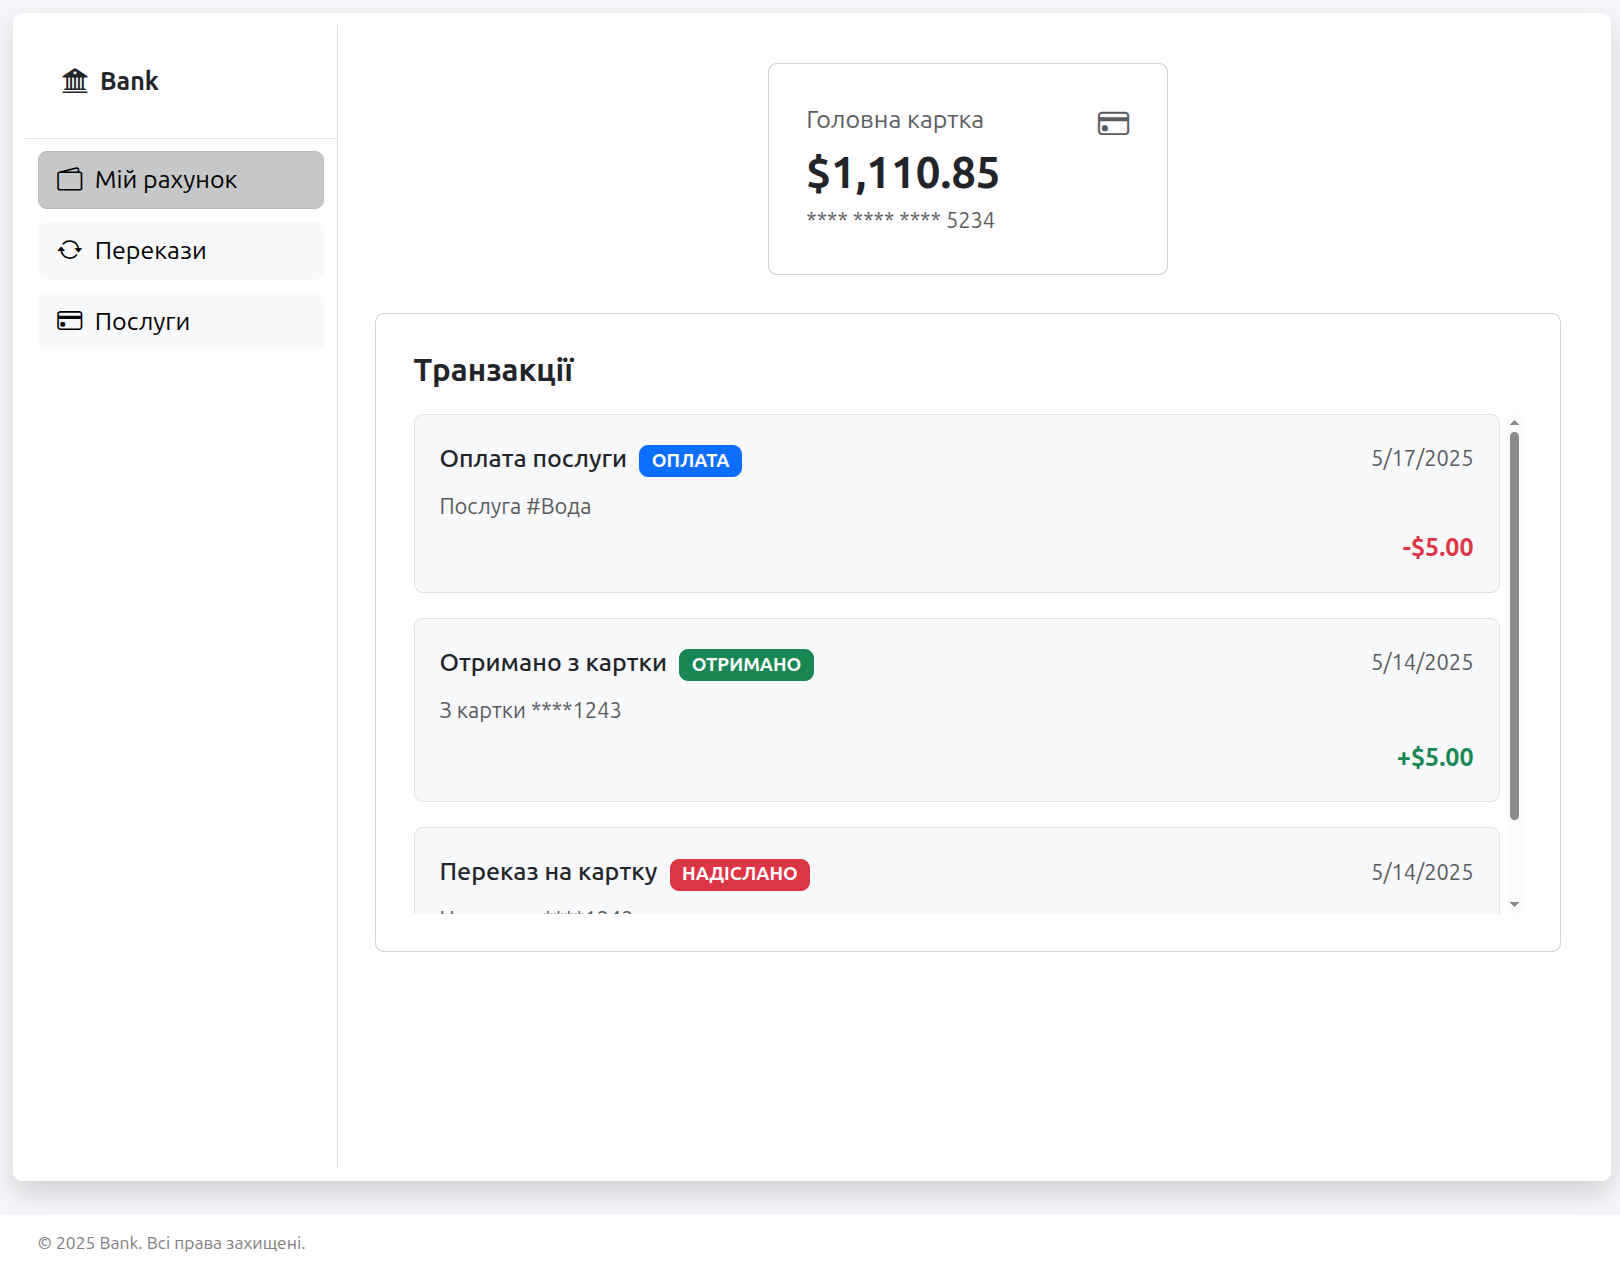
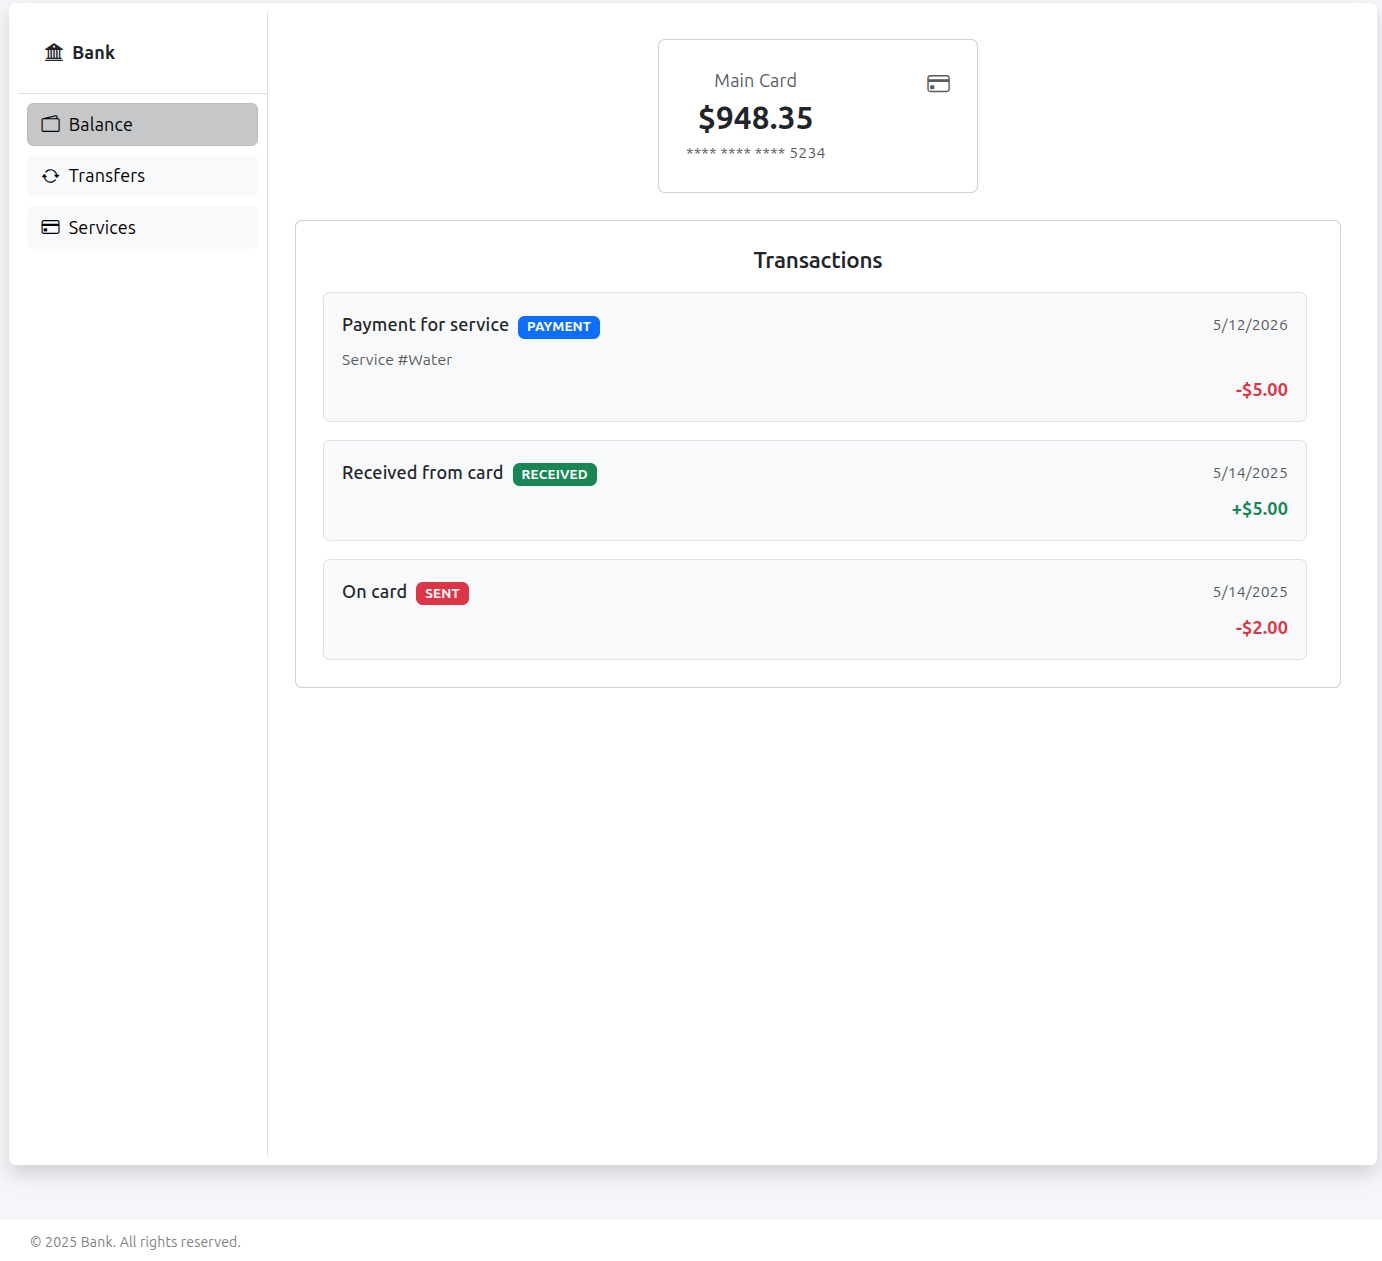
Final

diff --git a/backend/src/api/user/sending.ts b/backend/src/api/user/sending.ts
@@ -1,0 +1,61 @@
+import express from "express";
+
+const pool = require("../../db");
+const sendingPostRoute = express.Router();
+
+sendingPostRoute.post("/post", async (req, res) => {
+  const { card, amount, description, senderAccountNumber } = req.body;
+
+  if (!card || !amount || !senderAccountNumber) {
+    return res.status(400).json({ message: "Missing required fields" });
+  }
+
+  const connection = await pool.getConnection();
+
+  try {
+    await connection.beginTransaction();
+
+    const [receiverResults]: any = await connection.query(
+      "SELECT id FROM db.accounts WHERE number = ?",
+      [card],
+    );
+    if (receiverResults.length === 0) {
+      await connection.rollback();
+      return res.status(404).json({ message: "Receiver account not found" });
+    }
+    const receiverId = receiverResults[0].id;
+
+    const [senderResults]: any = await connection.query(
+      "SELECT id FROM db.accounts WHERE number = ?",
+      [senderAccountNumber],
+    );
+    if (senderResults.length === 0) {
+      await connection.rollback();
+      return res.status(404).json({ message: "Sender account not found" });
+    }
+    const senderId = senderResults[0].id;
+
+    await connection.query(
+      `INSERT INTO db.transactions (sender_id, receiver_id, amount, status, description, type) VALUES (?, ?, ?, ?, ?, ?)`,
+      [senderId, receiverId, amount, "ok", description, "Sent"],
+    );
+
+    await connection.query(
+      "UPDATE db.accounts SET balance = balance - ? WHERE id = ?",
+      [amount, senderId],
+    );
+
+    await connection.query(
+      "UPDATE db.accounts SET balance = balance + ? WHERE id = ?",
+      [amount, receiverId],
+    );
+
+    await connection.commit();
+    res.json({ message: "Transaction successful" });
+  } catch (error) {
+    console.error("Server error:", error);
+    res.status(500).json({ message: "Server error" });
+  }
+});
+
+export default sendingPostRoute;

diff --git a/frontend/src/ts/userTransfer.tsx b/frontend/src/ts/userTransfer.tsx
@@ -101,7 +101,7 @@ export default function UserTransfer() {
   };
 
   const confirmTransfer = async () => {
-    const senderCard = user[0]?.number;
+    const senderCard = "1234123412345234";
     const payload = {
       card: card.replace(/\D/g, ""),
       senderAccountNumber: senderCard?.replace(/\D/g, ""),
@@ -110,7 +110,7 @@ export default function UserTransfer() {
     };
 
     try {
-      const response = await fetch(`${API_BASE_URL}/api/user/sending`, {
+      const response = await fetch(`${API_BASE_URL}/sending/post`, {
         method: "POST",
         headers: { "Content-Type": "application/json" },
         body: JSON.stringify(payload),
@@ -126,7 +126,7 @@ export default function UserTransfer() {
       setShowModal(false);
 
       setToastMsg({
-        heading: "Transfer Confirmed",
+        heading: "Success",
         content: "Funds sent successfully!",
       });
       setShowToast(true);

diff --git a/frontend/src/ts/user.tsx b/frontend/src/ts/user.tsx
@@ -126,7 +126,7 @@ export default function UserDashboard() {
             </div>
           </div>
           <div className="card p-4">
-            <h2 className="fs-5 fw-semibold mb-3">Transactions</h2>
+            <h2 className="fs-5 fw-semibold mb-3 text-body">Transactions</h2>
             <div
               className="vstack gap-3 overflow-auto"
               style={{ maxHeight: "400px", paddingRight: "6px" }}
@@ -159,7 +159,7 @@ export default function UserDashboard() {
                       </div>
 
                       {tx.description && (
-                        <div className="text-muted small mb-1">
+                        <div className="text-muted small mb-1 text-md-start">
                           {tx.description}
                         </div>
                       )}

diff --git a/backend/src/app.ts b/backend/src/app.ts
@@ -24,7 +24,7 @@ import userTransactionsRoute from "./api/user/transactions";
 import servicesRoute from "./api/content/services";
 import paymentGetRoute from "./api/user/paymentGet";
 import paymentPostRoute from "./api/user/paymentPost";
-
+import sendingPostRoute from "./api/user/sending";
 // const paymentsGetRoute = require(join(__dirname, "api", "user", "paymentsGet"));
 // const paymentsPostRoute = require(
 //   join(__dirname, "api", "user", "paymentsPost"),
@@ -45,7 +45,7 @@ app.use("/user", userTransactionsRoute);
 app.use("/payments", paymentGetRoute);
 app.use("/payments", paymentPostRoute);
 
-// app.use("/api/user/", sendingRoute);
+app.use("/sending", sendingPostRoute);
 
 // app.use("/api/finance/transactions", transRoute);
 // app.use("/api/finance/transactions", senRoute);

diff --git a/frontend/src/main.tsx b/frontend/src/main.tsx
@@ -5,6 +5,7 @@ import { RouterProvider, createBrowserRouter } from "react-router-dom";
 import "bootstrap/dist/css/bootstrap.min.css";
 import "./index.css";
 import "bootstrap/dist/js/bootstrap.bundle.min";
+import "bootstrap-icons/font/bootstrap-icons.css";
 
 import User from "./ts/user";
 import UserTransfer from "./ts/userTransfer";
